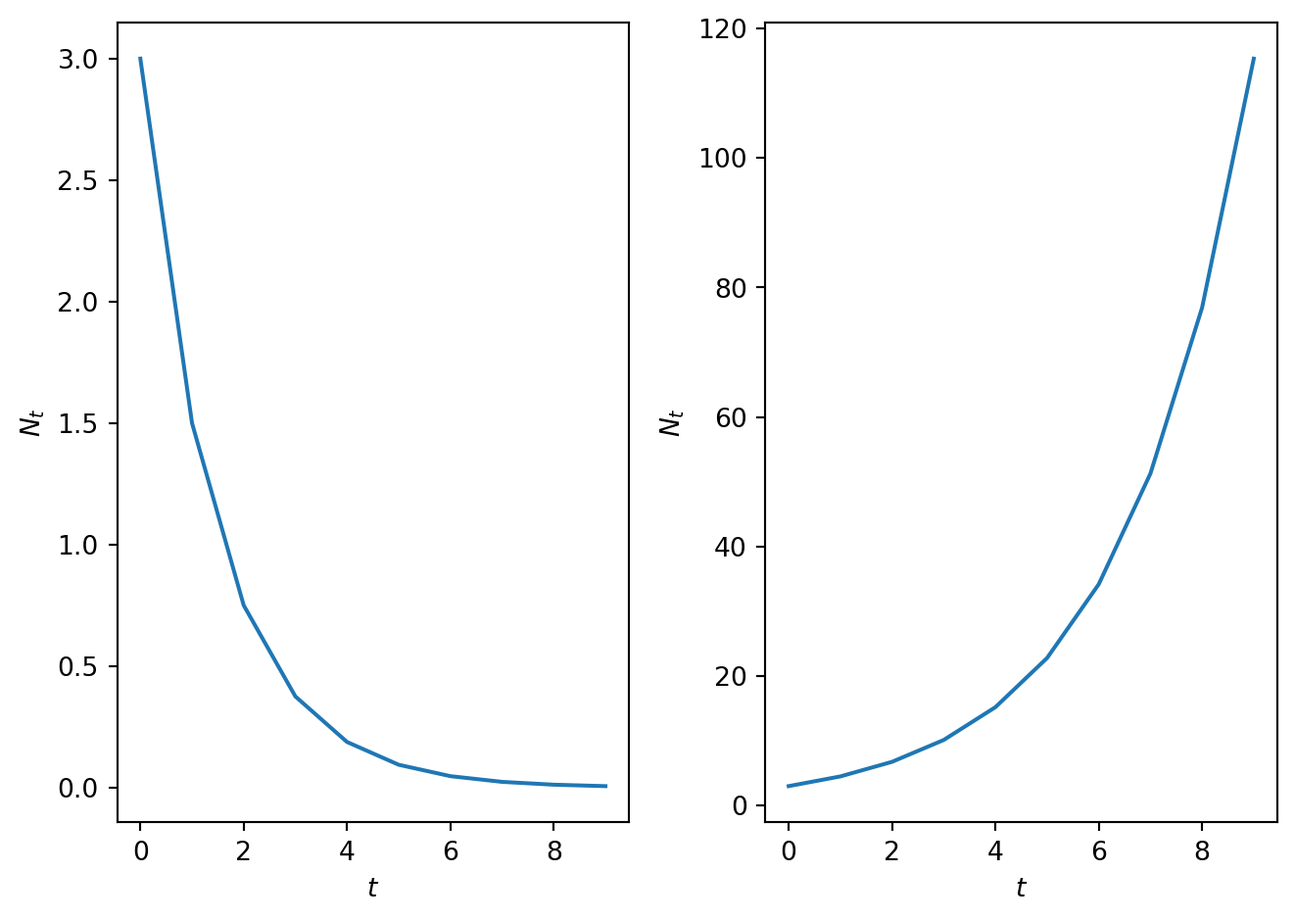
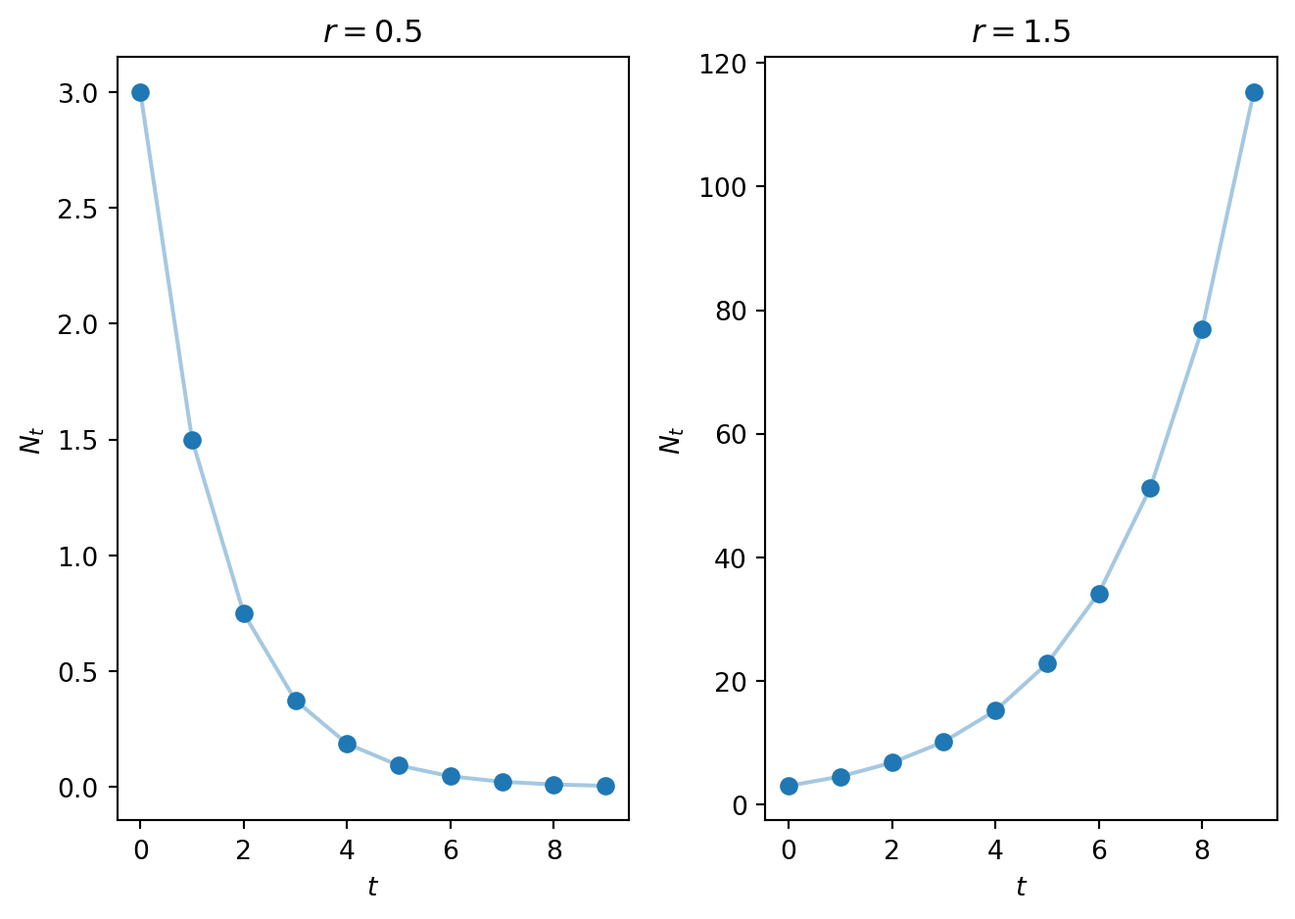
update Malthusian model

diff --git a/docs/part1/DiscreteTimeOnePop.html b/docs/part1/DiscreteTimeOnePop.html
@@ -186,7 +186,7 @@ window.Quarto = {
         <li class="sidebar-item">
   <div class="sidebar-item-container"> 
   <a href="../index.html" class="sidebar-item-text sidebar-link">
- <span class="menu-text">Preface</span></a>
+ <span class="menu-text"></span></a>
   </div>
 </li>
         <li class="sidebar-item sidebar-item-section">
@@ -334,38 +334,27 @@ window.Quarto = {
 </header>
 
 
-<p>Let us firstly consider models of a single population defined at discrete times. Discrete (rather than continuous) time is used in population models where, for example, there are strong annual trends in the underlying animal behaviour (e.g.&nbsp;fish eggs hatching at a fixed time in the year), there are not overlapping generations and the population size at the next time step can be written as a function of the current population size.</p>
+<p>We first consider models of a single population defined at discrete times. Discrete (rather than continuous) time is used in population models where, for example, there are strong annual trends in the underlying animal behaviour (e.g.&nbsp;fish eggs hatching at a fixed time of the year), there are not overlapping generations and the population size at the next time step can be written as a function of the current population size.</p>
 <section id="a-general-model-for-a-single-population-in-discrete-time" class="level2" data-number="1.1">
 <h2 data-number="1.1" class="anchored" data-anchor-id="a-general-model-for-a-single-population-in-discrete-time"><span class="header-section-number">1.1</span> A general model for a single population in discrete time</h2>
-<p>Let <span class="math inline">\(t\)</span> be an independent variable representing time and <span class="math inline">\(N_t\)</span> be a dependent variable representing the size of the population of a given species at time <span class="math inline">\(t\)</span>.</p>
-<p>Consider the first order difference equation <span id="eq-GeneralPopulationModel"><span class="math display">\[
-N_{t+1}=N_tf(N_t)=H(N_t),
-\tag{1.1}\]</span></span> where <span class="math inline">\(f(N_t)\)</span> is a function that defines the <em>per capita</em> growth rate. The function <span class="math inline">\(H(N_t)\)</span> describes the total (net) growth rate.</p>
-<p>Given some initial condition <span class="math inline">\(N_0\)</span> defined such that <span class="math display">\[
-N_{t=0}=N_0,
-\]</span> the goal of this section is to develop a range of techniques that allow us to analyse the behaviour of <a href="#eq-GeneralPopulationModel" class="quarto-xref">Equation&nbsp;<span>1.1</span></a> for a given <span class="math inline">\(H\)</span>.</p>
-<p>Finally, note that many of you were introduced to difference equations in the module MA21003 Discrete Mathematics. It is recommended that you revisit the section on Discrete Difference Equations.</p>
+<p>Let <span class="math inline">\(N_t\)</span> be a dependent variable, representing the population size of a single species, at the discrete time <span class="math inline">\(t\in\mathbb{N}\)</span>. We write the change in population as the first order difference equation, <span id="eq-GeneralPopulationModel"><span class="math display">\[
+N_{t+1} = H(N_t) = N_tf(N_t),
+\tag{1.1}\]</span></span> where <span class="math inline">\(H(N_t)\)</span> describes the total net growth rate and <span class="math inline">\(f(N_t)\)</span> defines the <em>net per capita</em> growth rate.</p>
+<p>Note, <em>per capita</em> is Latin for <em>per person</em> and hence is used to express something averaged over the population.</p>
+<p>The goal of this section is to develop a range of techniques that allow us to analyse the behaviour of <a href="#eq-GeneralPopulationModel" class="quarto-xref">Equation&nbsp;<span>1.1</span></a> for a given function <span class="math inline">\(H\)</span> and initial condition <span class="math inline">\(N_0\)</span> (population at <span class="math inline">\(t=0\)</span>).</p>
+<p>Finally, note that many of you were introduced to difference equations in the module MA21003 Discrete Mathematics. It is recommended that you revisit the section on Discrete Difference Equations in your notes.</p>
 </section>
 <section id="the-malthusian-model" class="level2" data-number="1.2">
 <h2 data-number="1.2" class="anchored" data-anchor-id="the-malthusian-model"><span class="header-section-number">1.2</span> The Malthusian model</h2>
-<p>Perhaps the simplest form for equation <a href="#eq-GeneralPopulationModel" class="quarto-xref">Equation&nbsp;<span>1.1</span></a> is when the net per capita growth rate is a constant.</p>
-<p>Let <span class="math inline">\(b\)</span> be the per capita growth rate and <span class="math inline">\(d\)</span> the per capita death rate with <span class="math inline">\(b\)</span> and <span class="math inline">\(d\)</span> both positive real constants.</p>
-<p>Hence, a population of size <span class="math inline">\(N_t\)</span> at time <span class="math inline">\(t\)</span> will grow by <span class="math display">\[
-bN_t
-\]</span></p>
-<p>over the course of the next iteration and decay by<br>
-<span class="math display">\[
-dN_t.
-\]</span> Therefore the population size at time <span class="math inline">\(t+1\)</span> is <span id="eq-MalthusianEqn"><span class="math display">\[
+<p>The simplest form for <a href="#eq-GeneralPopulationModel" class="quarto-xref">Equation&nbsp;<span>1.1</span></a> is a <em>constant net per capita growth rate</em>. Let <span class="math inline">\(b\)</span> be the per capita growth rate and <span class="math inline">\(d\)</span> the per capita death rate where <span class="math inline">\(b,d \in \mathbb{R}_{\geq 0}\)</span> (<span class="math inline">\(b\)</span> and <span class="math inline">\(d\)</span> are both positive real constants) and <span class="math inline">\(d \leq 1\)</span> (it’s not possible for more than 100 % of the population to die). This gives the difference equations as, <span id="eq-MalthusianEqn"><span class="math display">\[
 N_{t+1}=N_t + bN_t - dN_t=rN_t,
-\tag{1.2}\]</span></span> where the parameter <span class="math inline">\(r=1+b-d\)</span> is known as the net growth rate.</p>
-<p>Given the initial condition <span class="math inline">\(N_0\)</span>, equation <a href="#eq-MalthusianEqn" class="quarto-xref">Equation&nbsp;<span>1.2</span></a> can be solved recursively as follows:</p>
-<p><span class="math display">\[
-N_1=rN_0,
-N_2=r(N_1)=r^2N_0,   
-N_3=rN_2=r^3N_0, ...,    
-N_t=r^tN_0.
-\]</span></p>
+\tag{1.2}\]</span></span> where the parameter <span class="math inline">\(r=1+b-d\)</span> is the <em>net per capita growth rate</em>. Note that <span class="math inline">\(d \leq 1\)</span> and <span class="math inline">\(b \geq 0\)</span> implies that <span class="math inline">\(r \geq 0\)</span>.</p>
+<p>Given the initial condition <span class="math inline">\(N_0\)</span>, <a href="#eq-MalthusianEqn" class="quarto-xref">Equation&nbsp;<span>1.2</span></a> can be solved recursively, <span id="eq-MalthusianRecursive"><span class="math display">\[\begin{align}
+N_1&amp;=rN_0,\\
+N_2&amp;=r N_1=r^2N_0,\\
+N_3&amp;=r N_2=r^3N_0,\\ &amp;\ldots\\
+N_t&amp;=r^tN_0.
+\end{align} \tag{1.3}\]</span></span></p>
 <p>Hence for the case of Malthusian growth, the size of the population can be explicitly calculated for all <span class="math inline">\(t\)</span>.</p>
 <p>In <a href="#fig-plotmalthusian" class="quarto-xref">Figure&nbsp;<span>1.1</span></a> a numerical solution of the model is computed for different values of the parameter <span class="math inline">\(r\)</span>.</p>
 <div id="cell-fig-plotmalthusian" class="cell" data-execution_count="1">
@@ -385,7 +374,7 @@ N_t=r^tN_0.
 <span id="cb1-12"><a href="#cb1-12" aria-hidden="true" tabindex="-1"></a></span>
 <span id="cb1-13"><a href="#cb1-13" aria-hidden="true" tabindex="-1"></a><span class="co"># Define model parameters and initial condition</span></span>
 <span id="cb1-14"><a href="#cb1-14" aria-hidden="true" tabindex="-1"></a>N_0<span class="op">=</span><span class="fl">3.0</span></span>
-<span id="cb1-15"><a href="#cb1-15" aria-hidden="true" tabindex="-1"></a>r<span class="op">=</span><span class="fl">0.5</span></span>
+<span id="cb1-15"><a href="#cb1-15" aria-hidden="true" tabindex="-1"></a>r_1<span class="op">=</span><span class="fl">0.5</span></span>
 <span id="cb1-16"><a href="#cb1-16" aria-hidden="true" tabindex="-1"></a>r_2<span class="op">=</span><span class="fl">1.5</span></span>
 <span id="cb1-17"><a href="#cb1-17" aria-hidden="true" tabindex="-1"></a></span>
 <span id="cb1-18"><a href="#cb1-18" aria-hidden="true" tabindex="-1"></a></span>
@@ -406,28 +395,32 @@ N_t=r^tN_0.
 <span id="cb1-33"><a href="#cb1-33" aria-hidden="true" tabindex="-1"></a>  <span class="cf">return</span> N</span>
 <span id="cb1-34"><a href="#cb1-34" aria-hidden="true" tabindex="-1"></a></span>
 <span id="cb1-35"><a href="#cb1-35" aria-hidden="true" tabindex="-1"></a><span class="co"># Solve the difference equation</span></span>
-<span id="cb1-36"><a href="#cb1-36" aria-hidden="true" tabindex="-1"></a>N<span class="op">=</span>SolveSingleDiff(t,rhs,N_0,r)</span>
+<span id="cb1-36"><a href="#cb1-36" aria-hidden="true" tabindex="-1"></a>N<span class="op">=</span>SolveSingleDiff(t,rhs,N_0,r_1)</span>
 <span id="cb1-37"><a href="#cb1-37" aria-hidden="true" tabindex="-1"></a><span class="co"># Solve the difference equation with different value of parmeter r</span></span>
 <span id="cb1-38"><a href="#cb1-38" aria-hidden="true" tabindex="-1"></a></span>
 <span id="cb1-39"><a href="#cb1-39" aria-hidden="true" tabindex="-1"></a>N_2<span class="op">=</span>SolveSingleDiff(t,rhs,N_0,r_2)</span>
 <span id="cb1-40"><a href="#cb1-40" aria-hidden="true" tabindex="-1"></a></span>
 <span id="cb1-41"><a href="#cb1-41" aria-hidden="true" tabindex="-1"></a><span class="co"># Plot results</span></span>
 <span id="cb1-42"><a href="#cb1-42" aria-hidden="true" tabindex="-1"></a>fig, ax <span class="op">=</span> plt.subplots(<span class="dv">1</span>,<span class="dv">2</span>)</span>
-<span id="cb1-43"><a href="#cb1-43" aria-hidden="true" tabindex="-1"></a>ax[<span class="dv">0</span>].plot(t, N)</span>
-<span id="cb1-44"><a href="#cb1-44" aria-hidden="true" tabindex="-1"></a>ax[<span class="dv">0</span>].set_xlabel(<span class="st">'$t$'</span>)</span>
-<span id="cb1-45"><a href="#cb1-45" aria-hidden="true" tabindex="-1"></a>ax[<span class="dv">0</span>].set_ylabel(<span class="st">'$N_</span><span class="sc">{t}</span><span class="st">$'</span>)</span>
-<span id="cb1-46"><a href="#cb1-46" aria-hidden="true" tabindex="-1"></a></span>
-<span id="cb1-47"><a href="#cb1-47" aria-hidden="true" tabindex="-1"></a>ax[<span class="dv">1</span>].plot(t, N_2)</span>
-<span id="cb1-48"><a href="#cb1-48" aria-hidden="true" tabindex="-1"></a>ax[<span class="dv">1</span>].set_xlabel(<span class="st">'$t$'</span>)</span>
-<span id="cb1-49"><a href="#cb1-49" aria-hidden="true" tabindex="-1"></a>ax[<span class="dv">1</span>].set_ylabel(<span class="st">'$N_</span><span class="sc">{t}</span><span class="st">$'</span>)</span>
-<span id="cb1-50"><a href="#cb1-50" aria-hidden="true" tabindex="-1"></a>plt.tight_layout()</span>
-<span id="cb1-51"><a href="#cb1-51" aria-hidden="true" tabindex="-1"></a>plt.show()</span></code></pre></div><button title="Copy to Clipboard" class="code-copy-button"><i class="bi"></i></button></div>
+<span id="cb1-43"><a href="#cb1-43" aria-hidden="true" tabindex="-1"></a>ax[<span class="dv">0</span>].plot(t, N, linestyle<span class="op">=</span><span class="st">'-'</span>, alpha<span class="op">=</span><span class="fl">0.4</span>)      <span class="co"># faint line</span></span>
+<span id="cb1-44"><a href="#cb1-44" aria-hidden="true" tabindex="-1"></a>ax[<span class="dv">0</span>].plot(t, N, linestyle<span class="op">=</span><span class="st">'None'</span>, marker<span class="op">=</span><span class="st">'o'</span>,color<span class="op">=</span><span class="st">'C0'</span>) <span class="co"># solid markers</span></span>
+<span id="cb1-45"><a href="#cb1-45" aria-hidden="true" tabindex="-1"></a>ax[<span class="dv">0</span>].set_xlabel(<span class="st">'$t$'</span>)</span>
+<span id="cb1-46"><a href="#cb1-46" aria-hidden="true" tabindex="-1"></a>ax[<span class="dv">0</span>].set_ylabel(<span class="st">'$N_</span><span class="sc">{t}</span><span class="st">$'</span>)</span>
+<span id="cb1-47"><a href="#cb1-47" aria-hidden="true" tabindex="-1"></a>ax[<span class="dv">0</span>].set_title(<span class="st">'$r = 0.5$'</span>)</span>
+<span id="cb1-48"><a href="#cb1-48" aria-hidden="true" tabindex="-1"></a></span>
+<span id="cb1-49"><a href="#cb1-49" aria-hidden="true" tabindex="-1"></a>ax[<span class="dv">1</span>].plot(t, N_2, linestyle<span class="op">=</span><span class="st">'-'</span>, alpha<span class="op">=</span><span class="fl">0.4</span>)      <span class="co"># faint line</span></span>
+<span id="cb1-50"><a href="#cb1-50" aria-hidden="true" tabindex="-1"></a>ax[<span class="dv">1</span>].plot(t, N_2, linestyle<span class="op">=</span><span class="st">'None'</span>, marker<span class="op">=</span><span class="st">'o'</span>,color<span class="op">=</span><span class="st">'C0'</span>) <span class="co"># solid </span></span>
+<span id="cb1-51"><a href="#cb1-51" aria-hidden="true" tabindex="-1"></a>ax[<span class="dv">1</span>].set_xlabel(<span class="st">'$t$'</span>)</span>
+<span id="cb1-52"><a href="#cb1-52" aria-hidden="true" tabindex="-1"></a>ax[<span class="dv">1</span>].set_ylabel(<span class="st">'$N_</span><span class="sc">{t}</span><span class="st">$'</span>)</span>
+<span id="cb1-53"><a href="#cb1-53" aria-hidden="true" tabindex="-1"></a>ax[<span class="dv">1</span>].set_title(<span class="st">'$r = 1.5$'</span>)</span>
+<span id="cb1-54"><a href="#cb1-54" aria-hidden="true" tabindex="-1"></a>plt.tight_layout()</span>
+<span id="cb1-55"><a href="#cb1-55" aria-hidden="true" tabindex="-1"></a>plt.show()</span></code></pre></div><button title="Copy to Clipboard" class="code-copy-button"><i class="bi"></i></button></div>
 </details>
 <div class="cell-output cell-output-display">
 <div id="fig-plotmalthusian" class="quarto-float quarto-figure quarto-figure-center anchored">
 <figure class="quarto-float quarto-float-fig figure">
 <div aria-describedby="fig-plotmalthusian-caption-0ceaefa1-69ba-4598-a22c-09a6ac19f8ca">
-<img src="DiscreteTimeOnePop_files/figure-html/fig-plotmalthusian-output-1.png" width="661" height="470" class="figure-img">
+<img src="DiscreteTimeOnePop_files/figure-html/fig-plotmalthusian-output-1.png" width="661" height="469" class="figure-img">
 </div>
 <figcaption class="quarto-float-caption-bottom quarto-float-caption quarto-float-fig" id="fig-plotmalthusian-caption-0ceaefa1-69ba-4598-a22c-09a6ac19f8ca">
 Figure&nbsp;1.1: A plot of the Malthusian model solution when (a) <span class="math inline">\(r\)</span>=0.5 and (b) <span class="math inline">\(r\)</span>=1.5.
@@ -436,19 +429,18 @@ Figure&nbsp;1.1: A plot of the Malthusian model solution when (a) <span class="m
 </div>
 </div>
 </div>
-<p>Can you describe the behaviour of the Malthusian model? How does it depend on the value of the parameter <span class="math inline">\(r\)</span>?</p>
-<p>Qualitative analyses allows us to categorise solution behaviours into different cases. For example, note that the behaviour of the population at large <span class="math inline">\(t\)</span> is governed by the magnitude of the parameter <span class="math inline">\(r\)</span>.</p>
-<p>As <span class="math inline">\(t\rightarrow \infty\)</span></p>
+<p>Note, I have included connecting (straight) lines between the points to make the trend clear. However, this is a discrete system and <span class="math inline">\(N_t\)</span> is only evaluated at the natural numbers (points).</p>
+<p><strong>Exercise:</strong> Describe how the behaviour of the Malthusian model changes with <span class="math inline">\(r\)</span>. What are the critical values of <span class="math inline">\(r\)</span> that split the Malthusian model into qualitatively different behaviour?</p>
+<p>Qualitative analyses categorise solution behaviours into different cases based on their parameters. The behaviour of the Malthusian model changes at the critical value of <span class="math inline">\(r = 1\)</span> for which <span class="math inline">\(N_t = N_0\)</span> is constant. For <span class="math inline">\(r &gt; 1\)</span> (<span class="math inline">\(r&lt;1\)</span>) the solution is monotonically increasing (decreasing). Similarly the behaviour of the population at large <span class="math inline">\(t\)</span> also changes,</p>
 <p><span class="math display">\[
-N \rightarrow
+\lim_{t\rightarrow\infty}N_t =
 \left\{
 \begin{array}{ll}
-\infty &amp; r&gt;1  \\
-N_0&amp; r=1  \\  
+\infty &amp; r&gt;1,  \\
+N_0&amp; r=1,  \\  
 0 &amp; r&lt;1.     
 \end{array} \right.
 \]</span></p>
-<p>In <a href="#fig-plotmalthusian" class="quarto-xref">Figure&nbsp;<span>1.1</span></a> solutions in each of the (nontrivial) parameter regimes are plotted. When <span class="math inline">\(r&lt;1\)</span> the population tends to zero and when <span class="math inline">\(r&gt;1\)</span> the population explodes.</p>
 <p>Whilst the simplicity of the Malthusian model allows us to calculate explicit solutions that yield insight into how the processes of birth and death combine to give either net growth or net reduction in population size, an obvious flaw with this model is that it displays unbounded growth for <span class="math inline">\(r&gt;1\)</span>. In most biological systems, other effects, such as competition for resources or predation, will tend to limit a population’s size. In single species population models, these effects are accounted for phenomenologically by introducing nonlinear terms into the function <span class="math inline">\(f\)</span>.</p>
 </section>
 <section id="a-motivating-example-of-a-nonlinear-model---the-ricker-model" class="level2" data-number="1.3">
@@ -459,14 +451,14 @@ N_{t+1}=\frac{rN_t}{1+\frac{N_t}{K}},
 N_{t+1}=\frac{rN_t}{(1+\frac{N_t}{K})^b},
 \]</span> and the Ricker model <span class="math display">\[
 N_{t+1}=N_te^{r(1-\frac{N_t}{K})}.
-\]</span> where <span class="math inline">\(r\)</span>, <span class="math inline">\(K\)</span> and <span class="math inline">\(b\)</span> are positive parameters. Below we consider the Ricker model which was initially used to study Canadian sockeye salmon population dynamics.</p>
+\]</span> where $r, K, n _{&gt; 0} are positive parameters. Below we consider the Ricker model which was initially used to study Canadian sockeye salmon population dynamics.</p>
 <section id="model-development" class="level3" data-number="1.3.1">
 <h3 data-number="1.3.1" class="anchored" data-anchor-id="model-development"><span class="header-section-number">1.3.1</span> Model development</h3>
 <p>One way to capture a decreased growth rate at high densities, is to assume that the per capita growth rate is an exponentially decreasing function of population density, i.e.&nbsp; <span class="math display">\[
 f(N_t)=e^{r(1-\frac{N_t}{K})},
 \]</span> where <span class="math inline">\(r\)</span> is a growth rate and <span class="math inline">\(K\)</span> a carrying capacity (both positive constants). Hence the governing equation is <span id="eq-RickerDefn1"><span class="math display">\[
 N_{t+1}=N_te^{r(1-\frac{N_t}{K})}.
-\tag{1.3}\]</span></span> Note that as the population size gets large (<span class="math inline">\(N_t\gg K\)</span>), the growth rate tends to zero but that for small populations <span class="math inline">\(N_t\ll K\)</span> the growth rate is approximately constant. This is the Ricker model.</p>
+\tag{1.4}\]</span></span> Note that as the population size gets large (<span class="math inline">\(N_t\gg K\)</span>), the growth rate tends to zero but that for small populations <span class="math inline">\(N_t\ll K\)</span> the growth rate is approximately constant. This is the Ricker model.</p>
 <p>Note that the model is nonlinear and does not have an explicit solution.</p>
 </section>
 <section id="computational-solutions" class="level3" data-number="1.3.2">
@@ -677,15 +669,15 @@ Figure&nbsp;1.3: An app to explore behaviour of the Ricker model.
 <h2 data-number="1.4" class="anchored" data-anchor-id="general-techniques-for-analysing-nonlinear-difference-equations"><span class="header-section-number">1.4</span> General techniques for analysing nonlinear difference equations</h2>
 <p>In this section we develop techniques that will be used to analyse first order, discrete-time models of the form <span id="eq-generaleqn"><span class="math display">\[
 N_{t+1}=N_t f(N_t)=H(N_t).
-\tag{1.4}\]</span></span></p>
+\tag{1.5}\]</span></span></p>
 <section id="computational-solutions-1" class="level3" data-number="1.4.1">
 <h3 data-number="1.4.1" class="anchored" data-anchor-id="computational-solutions-1"><span class="header-section-number">1.4.1</span> Computational solutions</h3>
-<p>Perhaps the most obvious way to investigate an equation of the form of <a href="#eq-generaleqn" class="quarto-xref">Equation&nbsp;<span>1.4</span></a> is to iteratively compute <span class="math inline">\(N_t\)</span> over a prescribed time range.</p>
+<p>Perhaps the most obvious way to investigate an equation of the form of <a href="#eq-generaleqn" class="quarto-xref">Equation&nbsp;<span>1.5</span></a> is to iteratively compute <span class="math inline">\(N_t\)</span> over a prescribed time range.</p>
 <p>Hence given some initial population <span class="math inline">\(N_0\)</span>, the solution set <span class="math inline">\(\{N_0,N_1,N_2,...,N_T\}\)</span> is computed up to some end time <span class="math inline">\(T\)</span>. Such an approach provides a numerical solution for a given parameter set and initial condition. However, it does not provide much insight into the general behaviour of model.</p>
 </section>
 <section id="fixed-points" class="level3" data-number="1.4.2">
 <h3 data-number="1.4.2" class="anchored" data-anchor-id="fixed-points"><span class="header-section-number">1.4.2</span> Fixed points</h3>
-<p>We define <span class="math inline">\(N^*\)</span> to be a fixed point of <a href="#eq-generaleqn" class="quarto-xref">Equation&nbsp;<span>1.4</span></a> if and only if <span class="math display">\[
+<p>We define <span class="math inline">\(N^*\)</span> to be a fixed point of <a href="#eq-generaleqn" class="quarto-xref">Equation&nbsp;<span>1.5</span></a> if and only if <span class="math display">\[
 N^*=N^*f(N^*)=H(N^*).
 \]</span> Hence the fixed points can be identified by solving an algebraic equation.</p>
 </section>
@@ -694,7 +686,7 @@ N^*=N^*f(N^*)=H(N^*).
 <p>By linearising about the identified fixed points using a Taylor series expansion, it can be determined whether or not small perturbations around the fixed point grow or decay in subsequent iterations.</p>
 <p>Making a change of dependent variables <span class="math display">\[
 N_t=N^*+\hat{N_t},
-\]</span> <a href="#eq-generaleqn" class="quarto-xref">Equation&nbsp;<span>1.4</span></a> transforms upon substitution to <span class="math display">\[
+\]</span> <a href="#eq-generaleqn" class="quarto-xref">Equation&nbsp;<span>1.5</span></a> transforms upon substitution to <span class="math display">\[
 N^*+\hat{N}_{t+1} =  H(N^*+\hat{N}_t).
 \]</span></p>
 <p>Taylor expanding the right-hand side yields <span class="math display">\[
@@ -961,7 +953,7 @@ Figure&nbsp;1.5: A cobweb plot of the Malthusian model solution when <span class
 <h2 data-number="1.5" class="anchored" data-anchor-id="a-nonlinear-model-of-population-dynamics-in-discrete-time"><span class="header-section-number">1.5</span> A nonlinear model of population dynamics in discrete time</h2>
 <p>Consider a model of population growth given by <span id="eq-denslimgrowtheqn"><span class="math display">\[
 N_{t+1}=\frac{\gamma N_t}{1+N_t^2},
-\tag{1.5}\]</span></span> where <span class="math inline">\(\gamma\in \Re^+\)</span> is the linear growth rate.</p>
+\tag{1.6}\]</span></span> where <span class="math inline">\(\gamma\in \Re^+\)</span> is the linear growth rate.</p>
 <section id="the-per-capita-growth-rate" class="level3" data-number="1.5.1">
 <h3 data-number="1.5.1" class="anchored" data-anchor-id="the-per-capita-growth-rate"><span class="header-section-number">1.5.1</span> The per capita growth rate</h3>
 <p>Note that the per capita growth rate is described by the function <span class="math display">\[
@@ -1158,7 +1150,7 @@ Figure&nbsp;1.7: An app to explore model behaviour.
 </section>
 <section id="fixed-points-1" class="level3" data-number="1.5.3">
 <h3 data-number="1.5.3" class="anchored" data-anchor-id="fixed-points-1"><span class="header-section-number">1.5.3</span> Fixed points</h3>
-<p>The fixed points of <a href="#eq-denslimgrowtheqn" class="quarto-xref">Equation&nbsp;<span>1.5</span></a> satisfy the algebraic equation <span class="math display">\[
+<p>The fixed points of <a href="#eq-denslimgrowtheqn" class="quarto-xref">Equation&nbsp;<span>1.6</span></a> satisfy the algebraic equation <span class="math display">\[
 N^*=\frac{\gamma N^*}{1+{N^*}^2}
 \]</span> which has solutions <span class="math display">\[
 N^* = 0  \ \ \ \ \textrm{and} \ \ \ \ N^*=\sqrt{\gamma-1}.
@@ -1398,7 +1390,7 @@ The derivative evaluated at FP 2 is:
 <h2 data-number="1.6" class="anchored" data-anchor-id="an-application---how-much-harvesting-can-a-population-sustain"><span class="header-section-number">1.6</span> An application - how much harvesting can a population sustain?</h2>
 <p>Models of population dynamics can be used to study how interventions will affect population dynamics. Extending from the model developed in the previous example, a valid question might be what is the maximal rate of harvesting a fish stock can sustain without becoming extinct? ### Including a harvesting term Introducing a harvesting term at per capita harvesting rate <span class="math inline">\(h\)</span>, the governing model equation becomes <span id="eq-harvestingmodel"><span class="math display">\[
 N_{t+1}=\frac{\gamma N_t}{1+N_t^2} - h N_t,
-\tag{1.6}\]</span></span></p>
+\tag{1.7}\]</span></span></p>
 <p>and the questions we want to ask are: (i) does the introduction of harvesting change the dynamics of the system?; and (ii) what rate of harvesting such a population could withstand?</p>
 <section id="direct-simulation" class="level3" data-number="1.6.1">
 <h3 data-number="1.6.1" class="anchored" data-anchor-id="direct-simulation"><span class="header-section-number">1.6.1</span> Direct simulation</h3>
@@ -1630,7 +1622,7 @@ H'\left(\sqrt{\frac{\gamma}{1+h}-1}\right)=\frac{\gamma }{1+\frac{\gamma}{1+h}-1
 <p>Hence linear stability is a function of two parameters <span class="math inline">\(\gamma\)</span> and <span class="math inline">\(h\)</span>.</p>
 <p>We can show that <span id="eq-arvestingH_prime"><span class="math display">\[
 H'(N^*) = h^2\frac{2}{\gamma} + h\frac{2}{\gamma}(2-\gamma) + \frac{2}{\gamma}-1,
-\tag{1.7}\]</span></span></p>
+\tag{1.8}\]</span></span></p>
 <p>and hence that when <span class="math inline">\(h=0\)</span> we retrieve the stability condition from the previous model.</p>
 <div id="cell-fig-plotdensmodelharveststab" class="cell" data-execution_count="10">
 <details class="code-fold">
@@ -1828,14 +1820,14 @@ The derivative evaluated at FP 2 is:
 <p>Linear stability analysis describes the evolution of small perturbations close to a fixed point. But far from a fixed point the nonlinear terms that were dropped in a Taylor expansion are no longer negligible. In particular, in the case where <span class="math inline">\(H'(N^*)&lt;-1\)</span>, it can be the case that regions of parameter space in which a fixed point is oscillatory unstable can give rise to periodic and chaotic solutions.<br>
 ### Defining a periodic solution Consider the general form <span id="eq-genformagain"><span class="math display">\[
 N_{t+1}=H(N_t)
-\tag{1.8}\]</span></span></p>
-<p>A solution to <a href="#eq-genformagain" class="quarto-xref">Equation&nbsp;<span>1.8</span></a> is defined to be periodic with period <span class="math inline">\(T\)</span> if <span class="math display">\[
+\tag{1.9}\]</span></span></p>
+<p>A solution to <a href="#eq-genformagain" class="quarto-xref">Equation&nbsp;<span>1.9</span></a> is defined to be periodic with period <span class="math inline">\(T\)</span> if <span class="math display">\[
 \begin{aligned}
 N_{t+T}&amp;=N_t \ \  \forall t,
 N_{t+\tau}&amp;\neq N_t  \ \ \forall t, \  \ \ \tau&lt;T.
 \end{aligned}
 \]</span></p>
-<p>Period 2 solutions can be identified by looking for solutions that repeat after two iterations. Suppose <span class="math inline">\(\bar{N}\)</span> is a period 2 solution of <a href="#eq-genformagain" class="quarto-xref">Equation&nbsp;<span>1.8</span></a> and let <span class="math inline">\(\bar{N}=N_1\)</span>. Then <span class="math display">\[
+<p>Period 2 solutions can be identified by looking for solutions that repeat after two iterations. Suppose <span class="math inline">\(\bar{N}\)</span> is a period 2 solution of <a href="#eq-genformagain" class="quarto-xref">Equation&nbsp;<span>1.9</span></a> and let <span class="math inline">\(\bar{N}=N_1\)</span>. Then <span class="math display">\[
 N_{2}=H(\bar{N}).
 \]</span></p>
 <p>However, <span class="math display">\[
@@ -2347,8 +2339,8 @@ N_{t+1}=rN_1(1-N_t).
   </script>
 <nav class="page-navigation">
   <div class="nav-page nav-page-previous">
-      <a href="../index.html" class="pagination-link" aria-label="Preface">
-        <i class="bi bi-arrow-left-short"></i> <span class="nav-page-text">Preface</span>
+      <a href="../index.html" class="pagination-link" aria-label="<p style=&quot;text-align:center;&quot;>DI32011: Mathematical Biology</p> I">
+        <i class="bi bi-arrow-left-short"></i> <span class="nav-page-text"></span>
       </a>          
   </div>
   <div class="nav-page nav-page-next">

diff --git a/docs/index.html b/docs/index.html
@@ -105,7 +105,7 @@ div.csl-indent {
       <button type="button" class="quarto-btn-toggle btn" data-bs-toggle="collapse" role="button" data-bs-target=".quarto-sidebar-collapse-item" aria-controls="quarto-sidebar" aria-expanded="false" aria-label="Toggle sidebar navigation" onclick="if (window.quartoToggleHeadroom) { window.quartoToggleHeadroom(); }">
         <i class="bi bi-layout-text-sidebar-reverse"></i>
       </button>
-        <nav class="quarto-page-breadcrumbs" aria-label="breadcrumb"><ol class="breadcrumb"><li class="breadcrumb-item"><a href="./index.html">Preface</a></li></ol></nav>
+        <nav class="quarto-page-breadcrumbs" aria-label="breadcrumb"><ol class="breadcrumb"><li class="breadcrumb-item"><a href="./index.html"></a></li></ol></nav>
         <a class="flex-grow-1" role="navigation" data-bs-toggle="collapse" data-bs-target=".quarto-sidebar-collapse-item" aria-controls="quarto-sidebar" aria-expanded="false" aria-label="Toggle sidebar navigation" onclick="if (window.quartoToggleHeadroom) { window.quartoToggleHeadroom(); }">      
         </a>
       <button type="button" class="btn quarto-search-button" aria-label="Search" onclick="window.quartoOpenSearch();">
@@ -137,7 +137,7 @@ div.csl-indent {
         <li class="sidebar-item">
   <div class="sidebar-item-container"> 
   <a href="./index.html" class="sidebar-item-text sidebar-link active">
- <span class="menu-text">Preface</span></a>
+ <span class="menu-text"></span></a>
   </div>
 </li>
         <li class="sidebar-item sidebar-item-section">
@@ -225,16 +225,16 @@ div.csl-indent {
     <h2 id="toc-title">Table of contents</h2>
    
   <ul>
-  <li><a href="#preface" id="toc-preface" class="nav-link active" data-scroll-target="#preface">Preface</a>
-  <ul class="collapse">
-  <li><a href="#how-to-contact-me" id="toc-how-to-contact-me" class="nav-link" data-scroll-target="#how-to-contact-me">How to contact me?</a></li>
+  <li><a href="#lectures" id="toc-lectures" class="nav-link active" data-scroll-target="#lectures">Lectures</a></li>
   <li><a href="#lecture-notes" id="toc-lecture-notes" class="nav-link" data-scroll-target="#lecture-notes">Lecture notes</a></li>
+  <li><a href="#assessment" id="toc-assessment" class="nav-link" data-scroll-target="#assessment">Assessment</a></li>
+  <li><a href="#exmeptions" id="toc-exmeptions" class="nav-link" data-scroll-target="#exmeptions">Exmeptions</a></li>
+  <li><a href="#section" id="toc-section" class="nav-link" data-scroll-target="#section"></a></li>
   <li><a href="#reading" id="toc-reading" class="nav-link" data-scroll-target="#reading">Reading</a></li>
   <li><a href="#python-codes" id="toc-python-codes" class="nav-link" data-scroll-target="#python-codes">Python codes</a></li>
-  <li><a href="#assessment" id="toc-assessment" class="nav-link" data-scroll-target="#assessment">Assessment</a></li>
+  <li><a href="#assessment-1" id="toc-assessment-1" class="nav-link" data-scroll-target="#assessment-1">Assessment</a></li>
   <li><a href="#plan" id="toc-plan" class="nav-link" data-scroll-target="#plan">Plan</a></li>
   <li><a href="#references" id="toc-references" class="nav-link" data-scroll-target="#references">References</a></li>
-  </ul></li>
   </ul>
 <div class="toc-actions"><ul><li><a href="https://github.com/PlanarSkyrmion/DI32011/issues/new" class="toc-action"><i class="bi bi-github"></i>Report an issue</a></li></ul></div></nav>
     </div>
@@ -272,22 +272,39 @@ div.csl-indent {
 </header>
 
 
-
-<section id="preface" class="level1 unnumbered">
-<h1 class="unnumbered">Preface</h1><p><img src="DI32011Cover.png" title="DI32011" class="quarto-cover-image nolightbox img-fluid"></p>
-<p>Welcome to the module DI32011 Mathematical Biology I.</p>
-<p>My name is Thomas Winyard and I am the module lead.</p>
-<section id="how-to-contact-me" class="level2">
-<h2 class="anchored" data-anchor-id="how-to-contact-me">How to contact me?</h2>
+<p><img src="DI32011Cover.png" title="DI32011" class="quarto-cover-image nolightbox img-fluid"></p>
+#
+<p style="text-align:center;">
+DI32011: Mathematical Biology
+</p>
+I {.unnumbered}
+<p style="text-align:center;">
+</p><p><strong>Lecturer:</strong> Thomas Winyard</p>
+<p><strong>Email:</strong> <a href="mailto:twinyard001@dundee.ac.uk">twinyard001@dundee.ac.uk</a></p>
+<strong>Office:</strong> TBA
+<p></p>
+<section id="lectures" class="level2">
+<h2 class="anchored" data-anchor-id="lectures">Lectures</h2>
 <ul>
-<li>email: twinyard001@dundee.ac.uk</li>
-<li>office: TBA</li>
-<li>Teams: Use email</li>
+<li>Mondays 10:00 – 12:00, TBA</li>
+<li>Fridays 16:00 – 18:00, TBA</li>
+<li></li>
 </ul>
 </section>
 <section id="lecture-notes" class="level2">
 <h2 class="anchored" data-anchor-id="lecture-notes">Lecture notes</h2>
-<p>You can find lecture notes for the module on this page. If you would like a pdf this can be easily generated by clicking on the pdf link of the webpage. I will occasionally edit/update the notes as we proceed through lectures. If you spot any errors, typos or omissions please Raise an Issue</p>
+<p>The lecture notes are based on ones originally written by Philip Murray, and are aviailable in HTML on this page. If you would like a pdf this can be easily generated by clicking on the pdf link at the top left of the webpage. I will occasionally edit/update the notes as we proceed through lectures. If you spot any errors, typos or omissions please let me know via email.</p>
+</section>
+<section id="assessment" class="level2">
+<h2 class="anchored" data-anchor-id="assessment">Assessment</h2>
+<p><em>There will be <strong>two</strong> in class tests<br>
+</em></p>
+</section>
+<section id="exmeptions" class="level2">
+<h2 class="anchored" data-anchor-id="exmeptions">Exmeptions</h2>
+</section>
+<section id="section" class="level2">
+<h2 class="anchored" data-anchor-id="section"></h2>
 </section>
 <section id="reading" class="level2">
 <h2 class="anchored" data-anchor-id="reading">Reading</h2>
@@ -297,7 +314,7 @@ div.csl-indent {
 </section>
 <section id="python-codes" class="level2">
 <h2 class="anchored" data-anchor-id="python-codes">Python codes</h2>
-<p>I have provided Python codes for most of the figures in the notes (you can unfold code section by clicking `Code’). Note that the Python code does not appear in the pdf.</p>
+<p>Python code is provided for most of the figures in the notes (you can expand the code section by clicking `Code’). Note that the Python code does not appear in the pdf.</p>
 <p>Many of you have taken the Introduction to Programming module at Level 2 and have therefore some experience using Python. I strongly encourage you to use the provided codes as a tool to play around with numerical solutions of the various models that we will be working on. The codes should run as standalone Python codes.</p>
 <div class="callout callout-style-default callout-note callout-titled">
 <div class="callout-header d-flex align-content-center">
@@ -322,8 +339,8 @@ Note
 </div>
 <p>I have also provided some examples of how to use Python as a symbolic calculator. This uses a Python library called <em>sympy</em> and is quite similar to Maple.</p>
 </section>
-<section id="assessment" class="level2">
-<h2 class="anchored" data-anchor-id="assessment">Assessment</h2>
+<section id="assessment-1" class="level2">
+<h2 class="anchored" data-anchor-id="assessment-1">Assessment</h2>
 <ul>
 <li><p>Final exam (80 %)</p></li>
 <li><p>2 class tests (10 % each), Week 6 and 10</p></li>
@@ -426,7 +443,6 @@ Edelstein-Keshet, Leah. 2005. <em>Mathematical Models in Biology</em>. SIAM.
 Murray, J. D. 2002. <em>Mathematical Biology i: An Introduction</em>. Springer.
 </div>
 </div>
-</section>
 </section>
 
 </main> <!-- /main -->

diff --git a/docs/part2/Biochemicalkinetics.html b/docs/part2/Biochemicalkinetics.html
@@ -880,7 +880,7 @@ b-1&amp;a^2\\ -b &amp;-a^2\end{array}\right).
 <p>Hence <span class="math inline">\((a,b/a)\)</span> is not a saddle. The trace of the Jacobian is <span class="math display">\[
 \mathrm{tr} A=b-1-a^2.
 \]</span></p>
-<p>Hence if <span class="math inline">\(b&gt;1+a^2\)</span> the trace is positive and, referring to <span class="quarto-unresolved-ref">?fig-tdplane</span>, the steady state is linearly unstable. Otherwise, the steady state is linearly stable.</p>
+<p>Hence if <span class="math inline">\(b&gt;1+a^2\)</span> the trace is positive and, referring to <a href="CtsTimeMultiPop.html#fig-tdplane" class="quarto-xref">Figure&nbsp;<span>4.1</span></a>, the steady state is linearly unstable. Otherwise, the steady state is linearly stable.</p>
 <p>In <a href="#fig-bruss-numsol" class="quarto-xref">Figure&nbsp;<span>5.2</span></a> we numerically solve <a href="#eq-brussnondim" class="quarto-xref">Equation&nbsp;<span>5.4</span></a> in the case of oscillatory solutions. Note that when the steady state is unstable, the numerical solution indicates that the system has limit cycle solutions. A valid question to ask is whether one can prove that this is the case.</p>
 <div id="cell-fig-bruss-numsol" class="cell" data-execution_count="2">
 <details class="code-fold">

diff --git a/docs/part1/DiscreteTimeTwoPop.html b/docs/part1/DiscreteTimeTwoPop.html
@@ -186,7 +186,7 @@ window.Quarto = {
         <li class="sidebar-item">
   <div class="sidebar-item-container"> 
   <a href="../index.html" class="sidebar-item-text sidebar-link">
- <span class="menu-text">Preface</span></a>
+ <span class="menu-text"></span></a>
   </div>
 </li>
         <li class="sidebar-item sidebar-item-section">

diff --git a/docs/part2/CtsTimeOnePop.html b/docs/part2/CtsTimeOnePop.html
@@ -200,7 +200,7 @@ window.Quarto = {
         <li class="sidebar-item">
   <div class="sidebar-item-container"> 
   <a href="../index.html" class="sidebar-item-text sidebar-link">
- <span class="menu-text">Preface</span></a>
+ <span class="menu-text"></span></a>
   </div>
 </li>
         <li class="sidebar-item sidebar-item-section">
